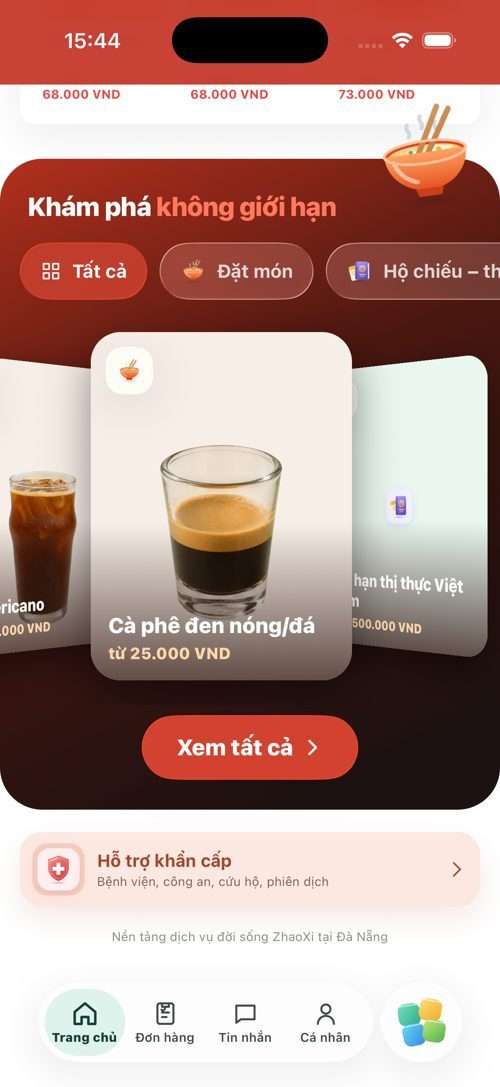
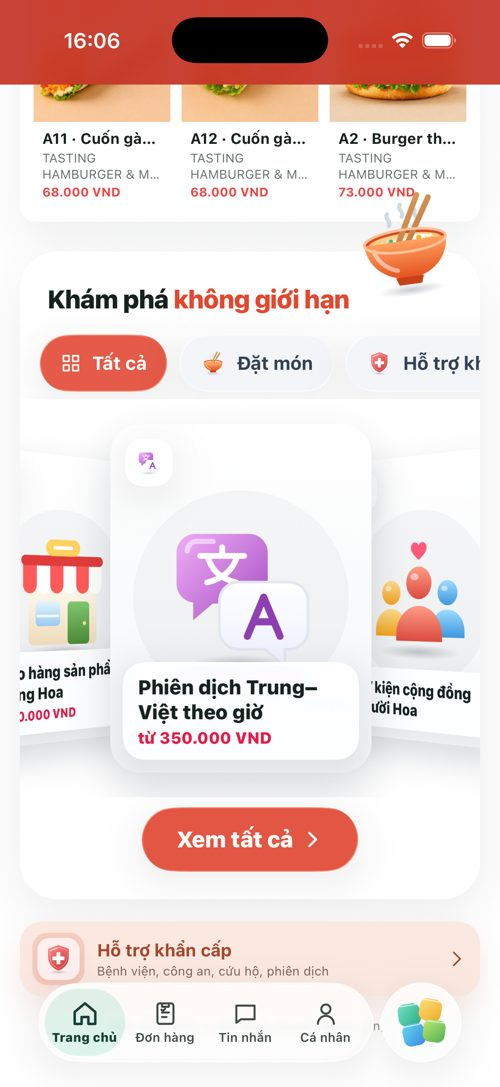
style(customer-mobile): white + glass explore section, neutral no-photo art
- "Khám phá" coverflow sits on a white borderless card instead of the dark
  coral panel; dark ink title with a single coral highlight, light glass
  tabs, white cards with a frosted glass caption panel and coral price.
- The no-photo 3D illustration fallback uses a white backdrop with a faint
  neutral halo instead of per-service tints.

diff --git a/frontend/apps/customer-mobile/src/components/explore-coverflow.tsx b/frontend/apps/customer-mobile/src/components/explore-coverflow.tsx
@@ -1,5 +1,4 @@
 import { localizeServiceModuleName, localizeServiceName } from "@zhaoxi/i18n";
-import { LinearGradient } from "expo-linear-gradient";
 import { router } from "expo-router";
 import { useEffect, useMemo, useState } from "react";
 import { Pressable, ScrollView, StyleSheet, Text, View, useWindowDimensions } from "react-native";
@@ -17,7 +16,7 @@ const STEP = CARD_W * 0.78; // cards overlap so the side ones peek out from behi
 
 /**
  * "Khám phá thêm" as an immersive coverflow (My Viettel "Giải trí không giới hạn"):
- * dark coral panel, highlighted title, glass module tabs, 3D carousel where the
+ * white card, highlighted title, glass module tabs, 3D carousel where the
  * centred card is straight and large and the neighbours rotate away in depth.
  */
 export function ExploreCoverflow({ items, title, highlight, more, allLabel }: { items: Recommendation[]; title: string; highlight: string; more: string; allLabel: string }) {
@@ -33,7 +32,6 @@ export function ExploreCoverflow({ items, title, highlight, more, allLabel }: { 
   if (!items.length) return null;
   return (
     <View style={styles.panel}>
-      <LinearGradient colors={["#B3301D", "#4A1710", "#1B1110"]} locations={[0, 0.45, 1]} start={{ x: 0, y: 0 }} end={{ x: 0.6, y: 1 }} style={[StyleSheet.absoluteFill, { borderRadius: 34 }]} />
       <Mascot code={mascot} />
       <Text style={styles.title} numberOfLines={1} adjustsFontSizeToFit minimumFontScale={0.8}>
         {title} <Text style={styles.highlight}>{highlight}</Text>
@@ -43,8 +41,8 @@ export function ExploreCoverflow({ items, title, highlight, more, allLabel }: { 
           const active = tab === item.key;
           return (
             <Pressable key={item.key} onPress={() => { haptic.select(); setTab(item.key); }} style={({ pressed }) => [styles.tab, pressed && { transform: [{ scale: 0.95 }] }]}>
-              <GlassFill radius={24} clear={!active} tint={active ? "rgba(226,72,52,0.75)" : "rgba(255,255,255,0.08)"} />
-              {item.key !== "all" ? <ServiceArt code={item.key} size={22} /> : <ZxIcon name="services" size={18} color={active ? colors.white : "rgba(255,255,255,0.75)"} />}
+              <GlassFill radius={24} tint={active ? "rgba(226,72,52,0.9)" : "rgba(241,243,246,0.7)"} />
+              {item.key !== "all" ? <ServiceArt code={item.key} size={22} /> : <ZxIcon name="services" size={18} color={active ? colors.white : "#475569"} />}
               <Text style={[styles.tabText, active && { color: colors.white }]} numberOfLines={1}>{item.label}</Text>
             </Pressable>
           );
@@ -95,12 +93,12 @@ function FlowCard({ item, index, x, last }: { item: Recommendation; index: numbe
       <Pressable onPress={() => router.push(routeForWebHref(item.href))} style={styles.card}>
         <View style={styles.cardClip}>
           <AppImage uri={imageUri(item.imageUrl)} fallbackCode={item.moduleCode} style={StyleSheet.absoluteFill} />
-          <LinearGradient colors={["rgba(40,14,8,0)", "rgba(40,14,8,0.72)"]} locations={[0.55, 1]} style={StyleSheet.absoluteFill} />
           <View style={styles.badge}>
             <GlassFill radius={14} tint="rgba(255,255,255,0.4)" />
             <ServiceArt code={item.moduleCode} size={22} />
           </View>
           <View style={styles.info}>
+            <GlassFill radius={18} tint="rgba(255,255,255,0.78)" />
             <Text style={styles.cardTitle} numberOfLines={2}>{localizeServiceName(locale, item.title)}</Text>
             {price ? <Text style={styles.cardPrice}>{t.common.from} {price}</Text> : null}
           </View>
@@ -125,19 +123,19 @@ function Mascot({ code }: { code: string }) {
 }
 
 const styles = StyleSheet.create({
-  panel: { marginHorizontal: -16, marginTop: 28, paddingTop: 26, paddingBottom: 24, borderTopLeftRadius: 34, borderTopRightRadius: 34, borderBottomLeftRadius: 34, borderBottomRightRadius: 34, overflow: "visible" },
+  panel: { marginTop: 24, paddingTop: 26, paddingBottom: 22, borderRadius: 30, backgroundColor: colors.white, shadowColor: "#0F172A", shadowOpacity: 0.08, shadowRadius: 20, shadowOffset: { width: 0, height: 12 } },
   mascot: { position: "absolute", right: 12, top: -46 },
-  title: { paddingHorizontal: 22, paddingRight: 104, fontSize: 21, fontWeight: "800", color: colors.white, letterSpacing: -0.3 },
-  highlight: { color: "#FF7A5C" },
+  title: { paddingHorizontal: 22, paddingRight: 104, fontSize: 21, fontWeight: "800", color: "#17221F", letterSpacing: -0.3 },
+  highlight: { color: "#E2482F" },
   tabs: { gap: 10, paddingHorizontal: 16, paddingTop: 16, paddingBottom: 6 },
   tab: { height: 46, paddingHorizontal: 16, borderRadius: 23, flexDirection: "row", alignItems: "center", gap: 8 },
-  tabText: { fontSize: 15, fontWeight: "700", color: "rgba(255,255,255,0.78)" },
-  card: { width: CARD_W, height: CARD_H, borderRadius: 24, backgroundColor: "#F7EFE7", shadowColor: "#000", shadowOpacity: 0.45, shadowRadius: 18, shadowOffset: { width: 0, height: 14 } },
-  cardClip: { flex: 1, borderRadius: 24, overflow: "hidden", backgroundColor: "#F7EFE7" },
+  tabText: { fontSize: 15, fontWeight: "700", color: "#334155" },
+  card: { width: CARD_W, height: CARD_H, borderRadius: 24, backgroundColor: colors.white, shadowColor: "#0F172A", shadowOpacity: 0.16, shadowRadius: 16, shadowOffset: { width: 0, height: 14 } },
+  cardClip: { flex: 1, borderRadius: 24, overflow: "hidden", backgroundColor: colors.white },
   badge: { position: "absolute", left: 12, top: 12, width: 38, height: 38, borderRadius: 14, alignItems: "center", justifyContent: "center" },
-  info: { position: "absolute", left: 14, right: 14, bottom: 14 },
-  cardTitle: { fontSize: 17, fontWeight: "800", color: colors.white, lineHeight: 21, textShadowColor: "rgba(0,0,0,0.4)", textShadowRadius: 6 },
-  cardPrice: { marginTop: 4, fontSize: 13, fontWeight: "800", color: "#FFD7A8" },
+  info: { position: "absolute", left: 10, right: 10, bottom: 10, paddingHorizontal: 12, paddingVertical: 10, borderRadius: 18 },
+  cardTitle: { fontSize: 16, fontWeight: "800", color: "#17221F", lineHeight: 20 },
+  cardPrice: { marginTop: 3, fontSize: 13, fontWeight: "800", color: colors.priceRose },
   more: { alignSelf: "center", marginTop: 8, height: 52, paddingHorizontal: 28, borderRadius: 26, flexDirection: "row", alignItems: "center", gap: 6 },
   moreText: { fontSize: 18, fontWeight: "800", color: colors.white },
 });

diff --git a/frontend/apps/customer-mobile/src/ui/index.tsx b/frontend/apps/customer-mobile/src/ui/index.tsx
@@ -10,7 +10,7 @@ import { PageHeader, TopBar } from "./chrome";
 import { haptic } from "./haptics";
 import { ZxIcon, type ZxIconName } from "./icons";
 import { GlassFill } from "./glass";
-import { ServiceArt, ServiceTile, servicePalettes } from "./service-icons";
+import { ServiceArt, ServiceTile } from "./service-icons";
 
 export type IconName = ComponentProps<typeof Ionicons>["name"];
 export { Ionicons, haptic, ZxIcon, type ZxIconName };
@@ -165,17 +165,16 @@ export function AppImage({ uri, style, fallbackCode, ...props }: Omit<ImageProps
   return <Image source={{ uri }} cachePolicy="memory-disk" transition={200} contentFit="cover" recyclingKey={uri} placeholder={{ blurhash: "L6PZfSi_.AyE_3t7t7R**0o#DgR4" }} style={style} {...props} />;
 }
 
-/** No photo: the 3D service illustration scaled to the frame on a service-tinted gradient with a soft glow. */
+/** No photo: the 3D service illustration scaled to the frame on a clean white backdrop with a faint neutral halo. */
 function ArtFallback({ code, style }: { code?: string | null; style?: StyleProp<ViewStyle> }) {
   const [box, setBox] = useState({ w: 0, h: 0 });
-  const palette = servicePalettes[code || ""] || { tint: "#ECFDF5", accent: colors.brand };
   const size = Math.max(28, Math.min(box.w, box.h) * 0.66);
   return (
-    <View onLayout={(event) => setBox({ w: event.nativeEvent.layout.width, h: event.nativeEvent.layout.height })} style={[{ alignItems: "center", justifyContent: "center", overflow: "hidden", backgroundColor: palette.tint }, style]}>
-      <LinearGradient colors={[palette.tint, "#FFFFFF", palette.tint]} locations={[0, 0.55, 1]} start={{ x: 0, y: 0 }} end={{ x: 1, y: 1 }} style={StyleSheet.absoluteFill} />
+    <View onLayout={(event) => setBox({ w: event.nativeEvent.layout.width, h: event.nativeEvent.layout.height })} style={[{ alignItems: "center", justifyContent: "center", overflow: "hidden", backgroundColor: colors.white }, style]}>
+      <LinearGradient colors={["#FFFFFF", "#F4F6F8"]} start={{ x: 0, y: 0 }} end={{ x: 0, y: 1 }} style={StyleSheet.absoluteFill} />
       {box.w ? (
         <>
-          <View style={{ position: "absolute", width: size * 1.25, height: size * 1.25, borderRadius: size, backgroundColor: palette.accent, opacity: 0.12 }} />
+          <View style={{ position: "absolute", width: size * 1.25, height: size * 1.25, borderRadius: size, backgroundColor: "#0F172A", opacity: 0.035 }} />
           <ServiceArt code={code} size={size} />
         </>
       ) : null}
